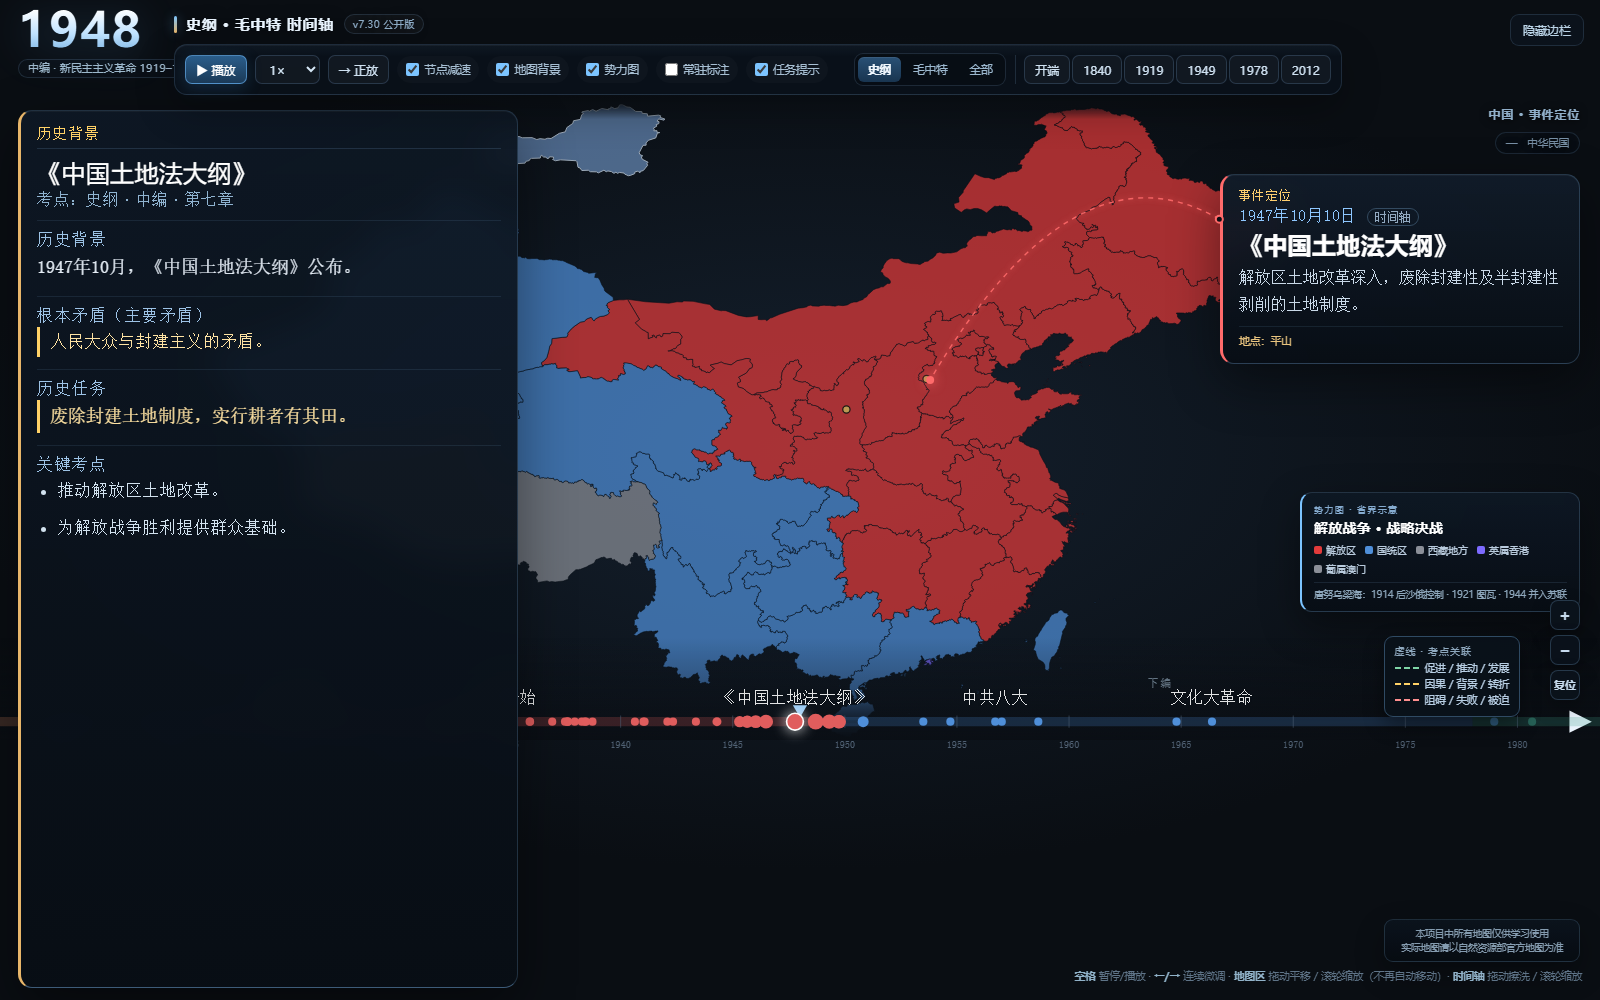
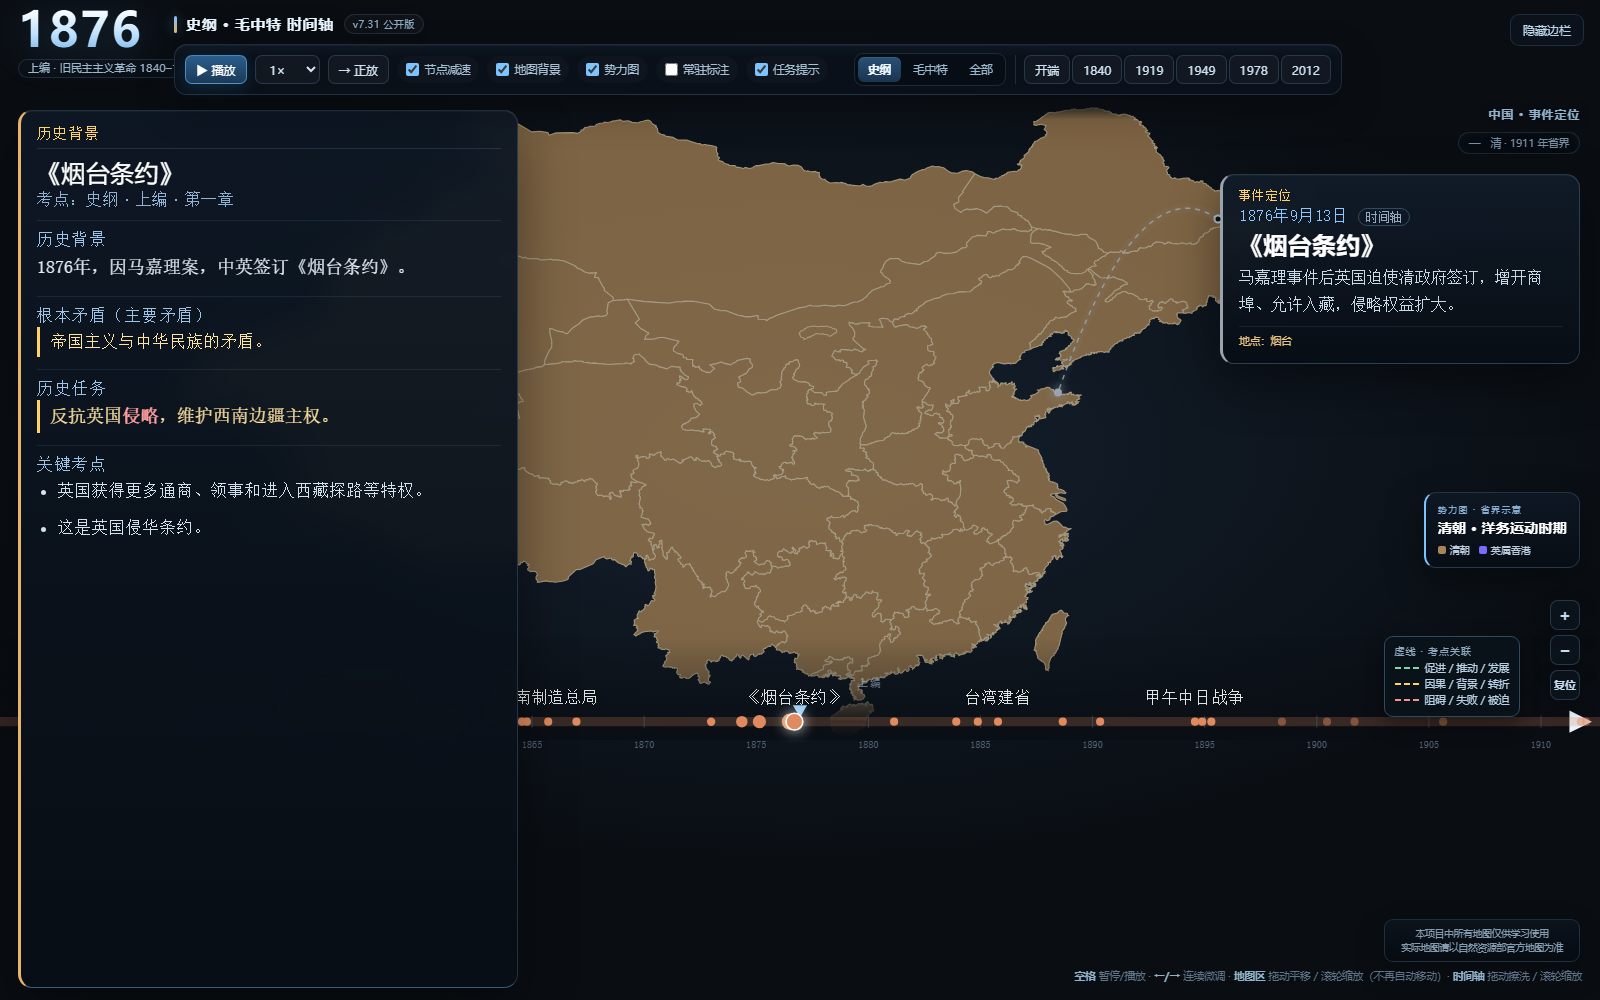
Release v7.31: correct historical relation lines

diff --git a/index.html b/index.html
@@ -3,7 +3,7 @@
 <head>
 <meta charset="utf-8">
 <meta name="viewport" content="width=device-width, initial-scale=1">
-<title>史纲 · 毛中特 时间轴（v7.30 公开版）</title>
+<title>史纲 · 毛中特 时间轴（v7.31 公开版）</title>
 <style>
   :root{ --bg1:#0a0e13; --bg2:#101823; --text:#e9f0f8; --muted:#8fa2b6; --line:#22303f; --accent:#7cc4ff; }
   *{box-sizing:border-box}
@@ -685,7 +685,7 @@
 <svg id="svg" xmlns="http://www.w3.org/2000/svg"></svg>
 
 <div id="topLeft">
-  <div id="title">史纲 · 毛中特 时间轴 <small>v7.30 公开版</small></div>
+  <div id="title">史纲 · 毛中特 时间轴 <small>v7.31 公开版</small></div>
   <button id="topToggle">隐藏边栏</button>
   <div id="controls">
     <button id="playBtn" class="pri">▶ 播放</button>
@@ -905,8 +905,9 @@ const EVENTS = [
   {"id":"e1866fz","year":1866,"era":"up","title":"福州船政局","sign":"洋务派创办的近代造船工业，附设船政学堂，培养海军人才。","links":["e1861"]} ,
   {"id":"e1872zs","year":1872,"era":"up","title":"轮船招商局","sign":"洋务运动民用工业代表，标志“自强”到“求富”的转变。","links":["e1861"]} ,
   {"id":"e1874tw","year":1874,"era":"up","title":"日本侵台","sign":"日本借牡丹社事件侵犯台湾，东南海疆危机显现；清政府赔款了结。","links":["e1864nw"]} ,
+  {"id":"e1875mj","year":1875,"era":"up","title":"马嘉理事件","sign":"英国驻华使馆翻译马嘉理在云南被杀，英国借机迫使清政府签订《烟台条约》。","links":[],"camp":"foreign"} ,
   {"id":"e1876xj","year":1876,"era":"up","title":"左宗棠收复新疆","sign":"“先北后南、缓进急战”，收复新疆大部；1884 年新疆建省。","links":["e1864nw"]} ,
-  {"id":"e1876yt","year":1876,"era":"up","title":"《烟台条约》","sign":"马嘉理事件后英国迫使清政府签订，增开商埠、允许入藏，侵略权益扩大。","links":["e1876xj"]} ,
+  {"id":"e1876yt","year":1876,"era":"up","title":"《烟台条约》","sign":"马嘉理事件后英国迫使清政府签订，增开商埠、允许入藏，侵略权益扩大。","links":["e1875mj"],"camp":"foreign"} ,
   {"id":"e1881yl","year":1881,"era":"up","title":"《伊犁条约》","sign":"收回伊犁九城及特克斯河谷，但仍割让霍尔果斯河以西地区。","links":["e1876xj"]} ,
   {"id":"e1883zf","year":1883,"era":"up","title":"中法战争","sign":"马尾海战、镇南关大捷；中国“不败而败”，法国势力深入西南。","links":["e1881yl"],"camp":"foreign"} ,
   {"id":"e1884xj","year":1884,"era":"up","title":"新疆建省","sign":"左宗棠收复新疆后建省，加强西北边疆管理。","links":["e1876xj"]} ,
@@ -936,7 +937,7 @@ const EVENTS = [
   {"id":"e1927b","year":1927,"era":"mid","title":"南昌起义","sign":"打响武装反抗国民党反动派的第一枪。","links":["e1927a"],"camp":"ccp"} ,
   {"id":"e1927c","year":1927,"era":"mid","title":"八七会议","sign":"确定土地革命和武装反抗国民党反动派的总方针。","links":["e1927b"],"camp":"ccp"} ,
   {"id":"e1927d","year":1927,"era":"mid","title":"井冈山","sign":"开辟“农村包围城市、武装夺取政权”的革命道路。","links":["e1927c"],"camp":"ccp"} ,
-  {"id":"e1928jn","year":1928,"era":"mid","title":"济南惨案","sign":"日军侵占济南，屠杀中国军民，制造“五三惨案”。","links":["e1927d"],"camp":"foreign"} ,
+  {"id":"e1928jn","year":1928,"era":"mid","title":"济南惨案","sign":"日军侵占济南，屠杀中国军民，制造“五三惨案”。","links":["e1927a"],"camp":"foreign"} ,
   {"id":"e1929","year":1929,"era":"mid","title":"古田会议","sign":"思想建党、政治建军原则确立。","links":["e1927d"]} ,
   {"id":"e1931","year":1931,"era":"mid","title":"九一八事变","sign":"局部抗战开始，民族矛盾上升。","links":["e1929"],"camp":"foreign"} ,
   {"id":"e1931sov","year":1931,"era":"mid","title":"中华苏维埃共和国成立","sign":"1931年11月，中华苏维埃共和国临时中央政府在瑞金成立。","links":["e1931"],"camp":"ccp"} ,
@@ -958,7 +959,7 @@ const EVENTS = [
   {"id":"e1938wh","year":1938,"era":"mid","title":"武汉会战","sign":"抗战进入相持阶段的标志性会战；日军速亡中国计划破产。","links":["e1938"],"camp":"kmt"} ,
   {"id":"e1940bg","year":1940,"era":"mid","title":"百团大战","sign":"八路军在华北发动大规模破袭战，打击日军交通线和据点。","links":["e1938wh"],"camp":"ccp"} ,
   {"id":"e1941wj","year":1941,"era":"mid","title":"皖南事变","sign":"国民党顽固派围攻新四军，抗日民族统一战线内部摩擦加剧。","links":["e1940bg"],"camp":"kmt"} ,
-  {"id":"e1941pj","year":1941,"era":"mid","title":"潘家峪惨案","sign":"日军在河北丰润潘家峪屠杀村民千余人，制造惨案。","links":["e1941wj"],"camp":"foreign"} ,
+  {"id":"e1941pj","year":1941,"era":"mid","title":"潘家峪惨案","sign":"日军在河北丰润潘家峪屠杀村民千余人，制造惨案。","links":["e1940bg"],"camp":"foreign"} ,
   {"id":"e1942yz","year":1942,"era":"mid","title":"延安整风","sign":"反对主观主义、宗派主义、党八股，确立实事求是思想路线，为七大作思想准备。","links":["e1938"],"camp":"ccp"} ,
   {"id":"e1942wy","year":1942,"era":"mid","title":"五一大扫荡","sign":"日军对冀中根据地“扫荡”，实行“三光”政策，敌后抗战进入最困难时期。","links":["e1941pj"],"camp":"foreign"} ,
   {"id":"e1943cj","year":1943,"era":"mid","title":"厂窖惨案","sign":"日军在湖南南县厂窖屠杀平民三万余人，制造惨案。","links":["e1942wy"],"camp":"foreign"} ,
@@ -981,7 +982,7 @@ const EVENTS = [
   {"id":"e1958db","year":1958,"era":"d1","title":"大跃进和人民公社化运动","sign":"1958年发动大跃进和人民公社化运动，探索中出现严重失误。","links":["e1956b"],"camp":"ccp"} ,
   {"id":"e1964","year":1964,"era":"d1","title":"第一颗原子弹爆炸成功","sign":"1964年10月16日第一颗原子弹爆炸成功；后来氢弹、人造卫星相继突破，合称“两弹一星”。","links":["e1956b"]} ,
   {"id":"e1966wg","year":1966,"era":"d1","title":"文化大革命","sign":"1966年发动“文化大革命”，给党、国家和各族人民带来严重灾难。","links":["e1958db"],"camp":"ccp"} ,
-  {"id":"e1978","year":1978,"era":"d1","title":"十一届三中全会","sign":"伟大转折：确立解放思想、实事求是，改革开放的开端。","links":["e1956b"]} ,
+  {"id":"e1978","year":1978,"era":"d1","title":"十一届三中全会","sign":"伟大转折：确立解放思想、实事求是，改革开放的开端。","links":["e1966wg"]} ,
   {"id":"e1980","year":1980,"era":"d2","title":"经济特区","sign":"对外开放的窗口，“杀出一条血路”。","links":["e1978"]} ,
   {"id":"e1992","year":1992,"era":"d2","title":"南方谈话","sign":"邓小平南方谈话，强调计划和市场都是手段，推动改革开放再出发。","links":["e1980"]} ,
   {"id":"e1992b","year":1992,"era":"d2","title":"中共十四大","sign":"确立社会主义市场经济体制改革目标，用邓小平建设有中国特色社会主义理论武装全党。","links":["e1992"]} ,
@@ -1062,6 +1063,10 @@ const EVENT_DATE = {
   "e1942yz": [
     2,
     1
+  ],
+  "e1875mj": [
+    2,
+    21
   ],
   "e1881yl": [
     2,
@@ -1764,7 +1769,8 @@ const LOC = {
   e1947td:{"lon": 114.2, "lat": 38.25, "place": "平山"},
   e1949dj:{"lon": 118.8, "lat": 32.06, "place": "南京/长江"},
   e1958db:{"lon": 116.4, "lat": 39.9, "place": "北京"},
-  e1966wg:{"lon": 116.4, "lat": 39.9, "place": "北京"}
+  e1966wg:{"lon": 116.4, "lat": 39.9, "place": "北京"},
+  e1875mj:{"lon": 97.93, "lat": 24.71, "place": "云南盈江"}
 };
 EVENTS.forEach(e => { if (LOC[e.id]) e.loc = LOC[e.id]; });
 MAO_EVENTS.forEach(e => { if (LOC[e.id]) e.loc = LOC[e.id]; });

diff --git a/kaodian.js b/kaodian.js
@@ -2889,3 +2889,40 @@ Object.assign(window.HISTORY_TASKS, {
   e1958db: {background:'1958年发动“大跃进”和人民公社化运动。',contradiction:'人民对于经济文化迅速发展的需要同当前经济文化不能满足人民需要的状况之间的矛盾。',main:'探索社会主义建设道路，但出现急于求成的严重失误。',sides:['高指标、瞎指挥、浮夸风。','人民公社化运动脱离实际。']},
   e1966wg: {background:'1966年5月16日，“文化大革命”发动。',contradiction:'阶级斗争扩大化。',main:'认识“文化大革命”的严重错误和历史教训。',sides:['全局性、长时间的“左”倾严重错误。','给党、国家和各族人民带来严重灾难。']}
 });
+
+
+/* ===== v7.31 关系线复核与马嘉理事件 ===== */
+Object.assign(window.KAODIAN, {
+  e1875mj: {ch:'史纲·上编·第一章', pt:'马嘉理事件与《烟台条约》'}
+});
+Object.assign(window.EVENT_FACTS, {
+  e1875mj: [
+    '1875年2月，英国驻华使馆翻译马嘉理在云南被当地民众杀死，史称“马嘉理事件”或“滇案”。',
+    '英国借机向清政府施压，要求扩大在华侵略权益。',
+    '1876年，清政府被迫签订《烟台条约》，英国侵略势力进一步深入中国西南。'
+  ]
+});
+Object.assign(window.HISTORY_TASKS, {
+  e1875mj: {
+    background:'1875年2月，马嘉理在云南被杀，英国借“滇案”对清政府施压。',
+    contradiction:'帝国主义与中华民族的矛盾。',
+    main:'认识英国借马嘉理事件扩大侵略，理解《烟台条约》的背景。',
+    sides:['马嘉理事件是《烟台条约》的直接导火索。','英国侵略势力进一步深入中国西南。']
+  }
+});
+Object.assign(window.RELATIONS, {
+  'e1876xj>e1864nw':'背景',
+  'e1931>e1929':'背景',
+  'e1941pj>e1940bg':'报复',
+  'e1928jn>e1927a':'背景',
+  'e1876yt>e1875mj':'结果',
+  'e1883zf>e1881yl':'关联',
+  'e1956b>e1953':'背景',
+  'e1978>e1966wg':'转折',
+  'e1997>e1992b':'关联',
+  'e2001>e1997':'关联',
+  'e2003>e2001':'关联'
+});
+delete window.RELATIONS['e1876yt>e1876xj'];
+
+delete window.RELATIONS['e1978>e1956b'];

diff --git a/README.md b/README.md
@@ -1,4 +1,4 @@
-# 史纲 · 毛中特 流光时间轴（v7.30）
+# 史纲 · 毛中特 流光时间轴（v7.31）
 
 2027 考研政治复习工具：**中国近现代史纲要 + 毛中特** 时间轴、历史地图、势力图与考点资料。
 
@@ -95,10 +95,10 @@ GitHub 打不开时，可以使用国内网盘备份：
 
 ## 数据完整度
 
-- 事件速览：144 / 144
-- 专属历史任务：144 / 144
-- 具体日期：141 / 144（3 个过程性事件保留年份）
-- 事件→章节映射：144 / 144
+- 事件速览：145 / 145
+- 专属历史任务：145 / 145
+- 具体日期：142 / 145（3 个过程性事件保留年份）
+- 事件→章节映射：145 / 145
 
 ## 已知限制
 
